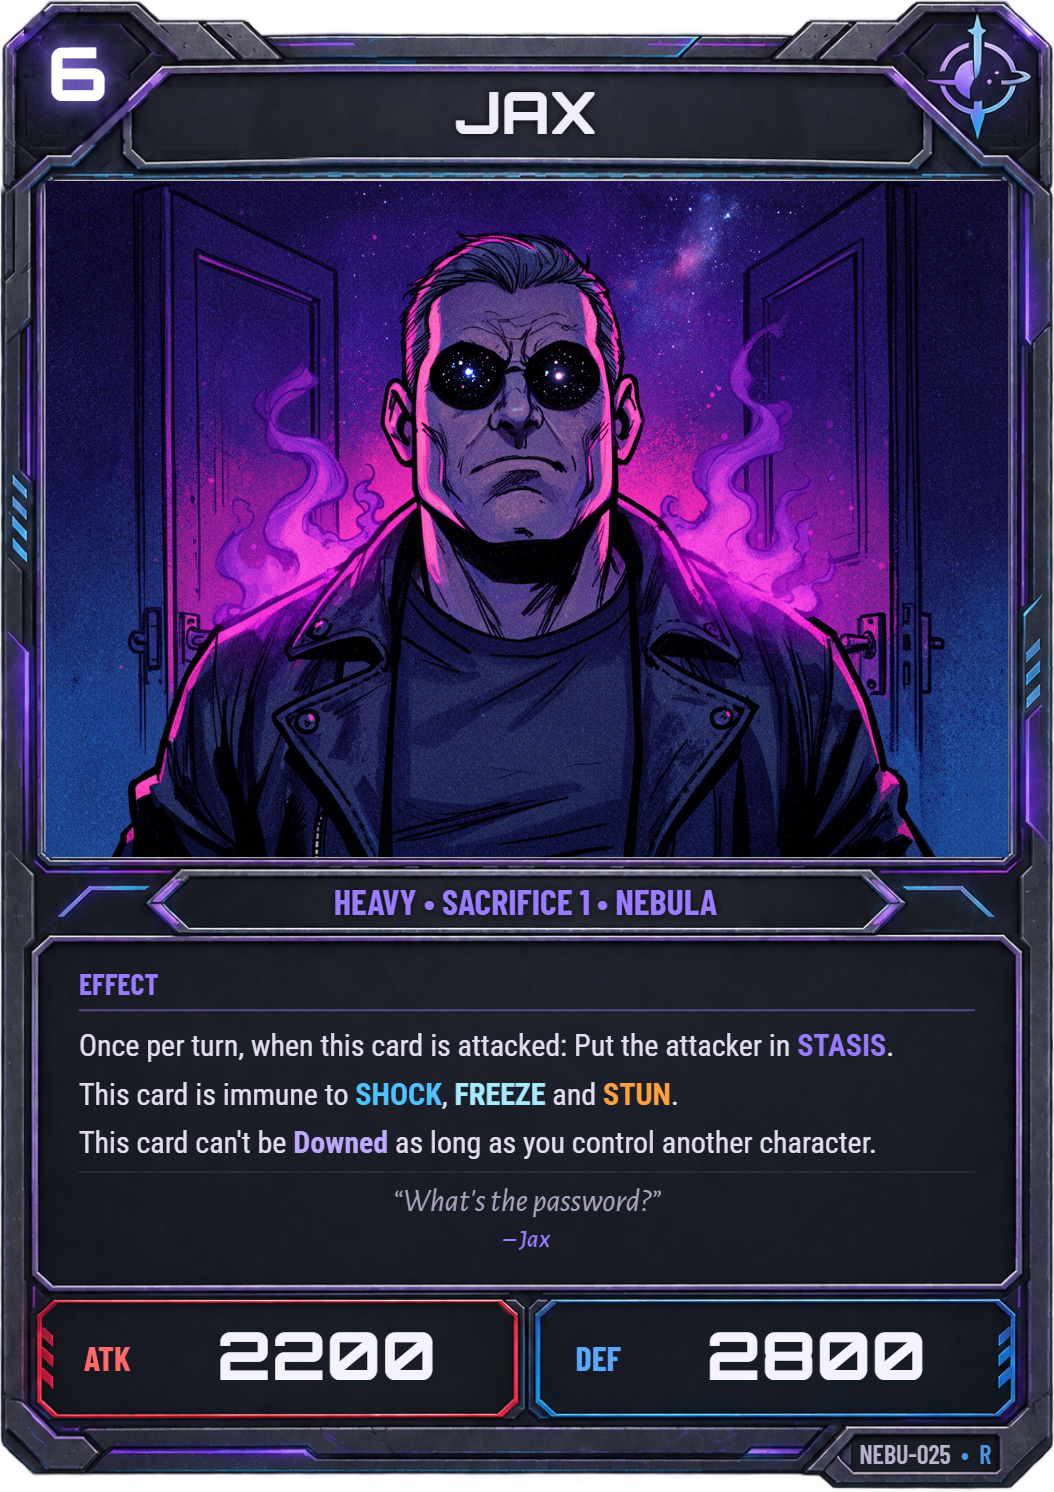
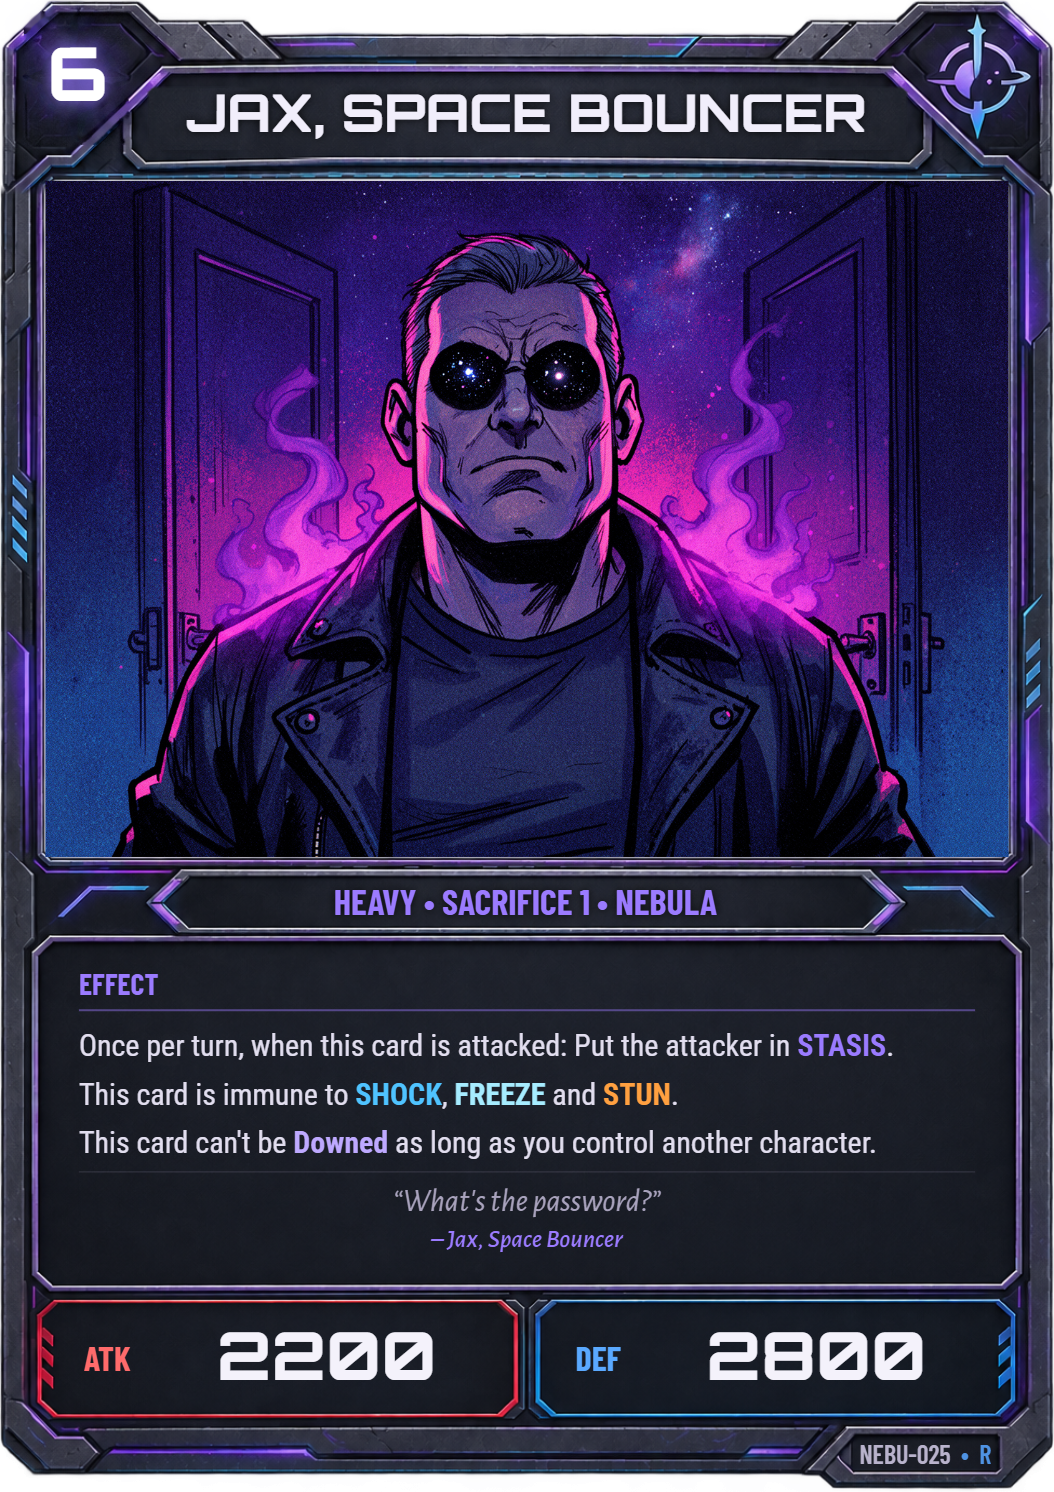
Cards: Forge export (Jax, Space Bouncer renamed; Dr. Orion Krell destroys a Hustle or Ambush at the end of your turn)

Changed region(s): [[0.1822, 0.0617, 0.8197, 0.0925], [0.4858, 0.8016, 0.5465, 0.8324]]

diff --git a/shared/cards_forge.js b/shared/cards_forge.js
@@ -478,7 +478,7 @@ export const FORGE_CARDS = {
     },
     "card_nebu_025": {
         "id": "card_nebu_025",
-        "name": "Jax",
+        "name": "Jax, Space Bouncer",
         "clan": "nebula",
         "cardType": "gang_member",
         "authority": 6,
@@ -993,12 +993,12 @@ export const FORGE_CARDS = {
         "art_url": "card_nebu_037",
         "code": "NEBU-037",
         "flavourText": "Science isn’t about playing with forces. It’s about convincing them to play with you.",
-        "effectText": "At the end of your turn: Put one enemy character in STASIS.",
+        "effectText": "At the end of your turn: Destroy one of your opponent's Hustle or Ambush cards, face-up or face-down.",
         "effects": [
             {
                 "when": "turn_end",
-                "do": "stasis",
-                "target": "enemy"
+                "do": "wreck",
+                "amount": 1
             }
         ],
         "clanName": "Nebula",
